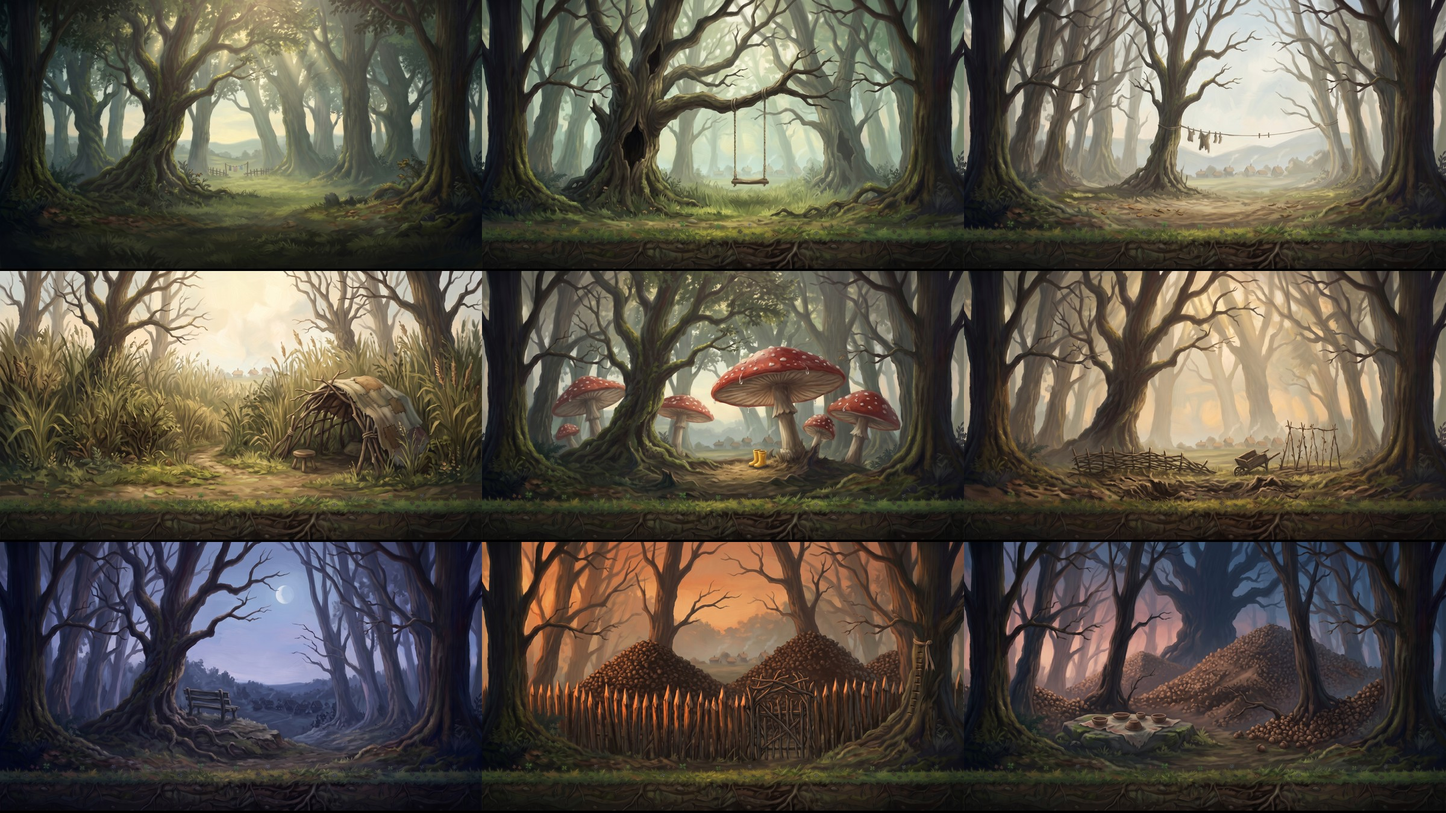
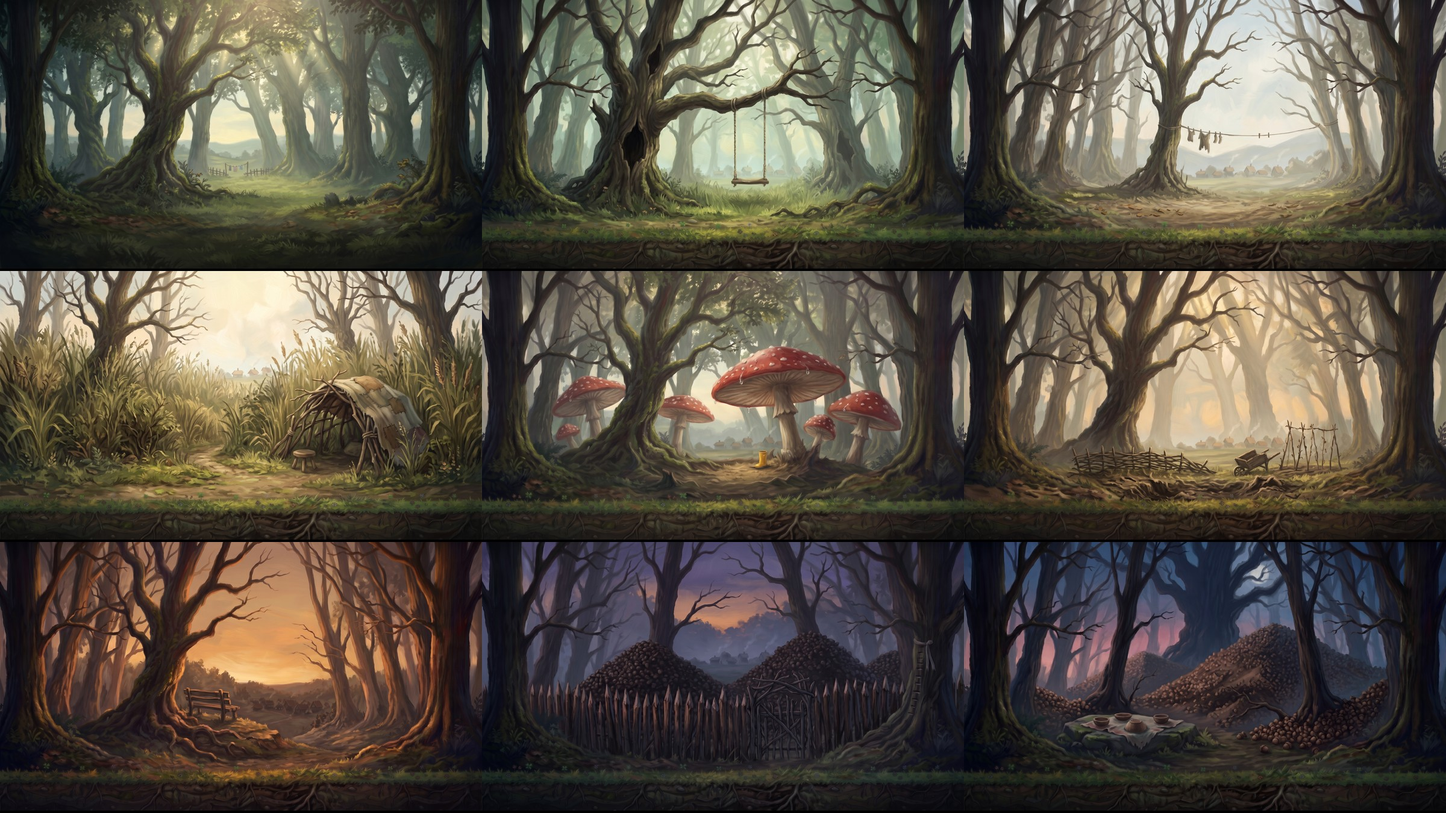
1장 배경 4곳을 고쳤다: 장화 한 짝, 엎어진 밥그릇, 때의 순서
Claude-Session: https://claude.ai/code/session_019ctizXgKMq2Zc4rqnxPXRD

diff --git a/기획/배경 100곳.md b/기획/배경 100곳.md
@@ -32,9 +32,9 @@
 | 1-4 | 거대 사마귀 | 키 큰 풀숲 | 한낮 | 풀숲 속 아이들의 비밀 기지 |
 | 1-5 | 우산 버섯 | 버섯 둔덕 | 비 갠 오후 | 큰 버섯 밑의 노란 장화 한 짝 |
 | 1-6 | 멧돼지 | 파헤쳐진 빈터 | 오후 | 쓰러진 울타리와 뒤집힌 손수레 |
-| 1-7 | 늑대 | 깊은 숲 | 초저녁, 달이 뜸 | 불 꺼진 마을을 바라보는 빈 긴 의자 |
-| 1-8 | 나무껍질 병사 | 도토리 더미 앞 울짱 | 노을 | 나무에 새긴 키 재기 칼금과 리본 |
-| 1-9 | 이끼 등 곰 | 도토리 산 | 땅거미 | 바위 위의 밥그릇 넷, 하나는 엎어져 있다 |
+| 1-7 | 늑대 | 깊은 숲 | 노을 | 불 꺼진 마을을 바라보는 빈 긴 의자 |
+| 1-8 | 나무껍질 병사 | 도토리 더미 앞 울짱 | 땅거미 | 나무에 새긴 키 재기 칼금과 리본 |
+| 1-9 | 이끼 등 곰 | 도토리 산 | 달 뜬 초저녁 | 바위 위의 밥그릇 넷, 하나는 엎어져 있다 |
 | 1-10 | 나무의 왕 그룸 | 그룸이 서 있던 자리 | 새벽 안개 | 큰 나무가 뽑혀 나간 구덩이, 조약돌 줄, 키 재는 막대 |
 
 ## 2장 · 바람개비 언덕
